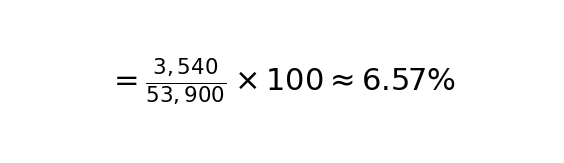
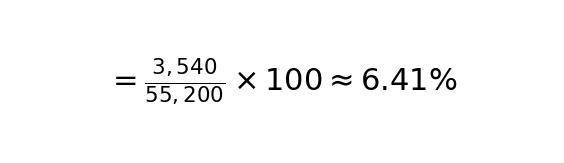
[feat/#707-sk] 수식 이미지의 분모 값 수정
* `dividend_yield_calculation`의 분모를 `55,200`으로 변경하여 정확한 수치 반영

Changed region(s): [[0.422, 0.3988, 0.8138, 0.5521], [0.2411, 0.5215, 0.3918, 0.6442], [0.2713, 0.3374, 0.3918, 0.4601]]

diff --git a/scripts/generate_math_images.py b/scripts/generate_math_images.py
@@ -20,7 +20,7 @@ formulas = [
     {
         'name': 'dividend_yield_calculation',
         # 숫자만 있는 분수는 LaTeX로 표현
-        'text': r'$= \frac{3,540}{53,900} \times 100 \approx 6.57\%$',
+        'text': r'$= \frac{3,540}{55,200} \times 100 \approx 6.41\%$',
         'figsize': (2.8, 0.8),
         'fontsize': 11,
         'dpi': 200
